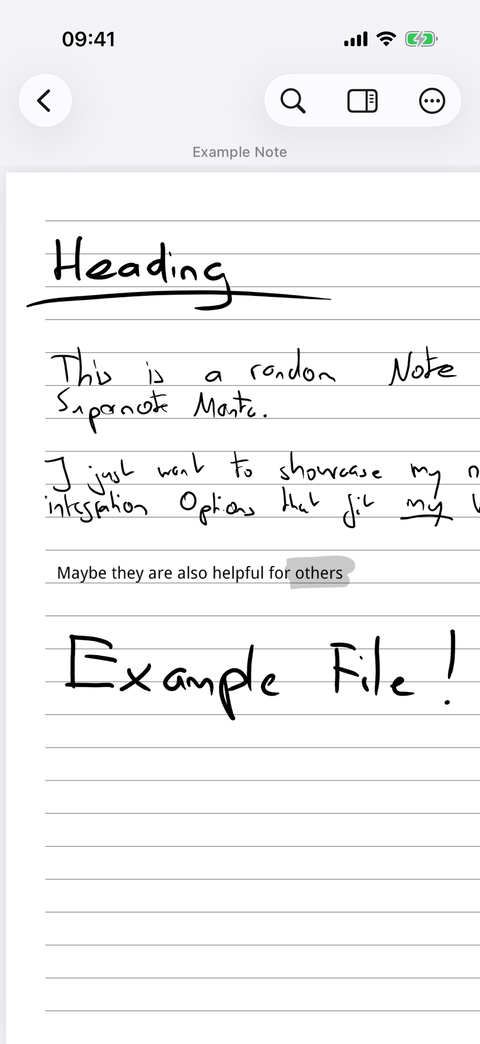
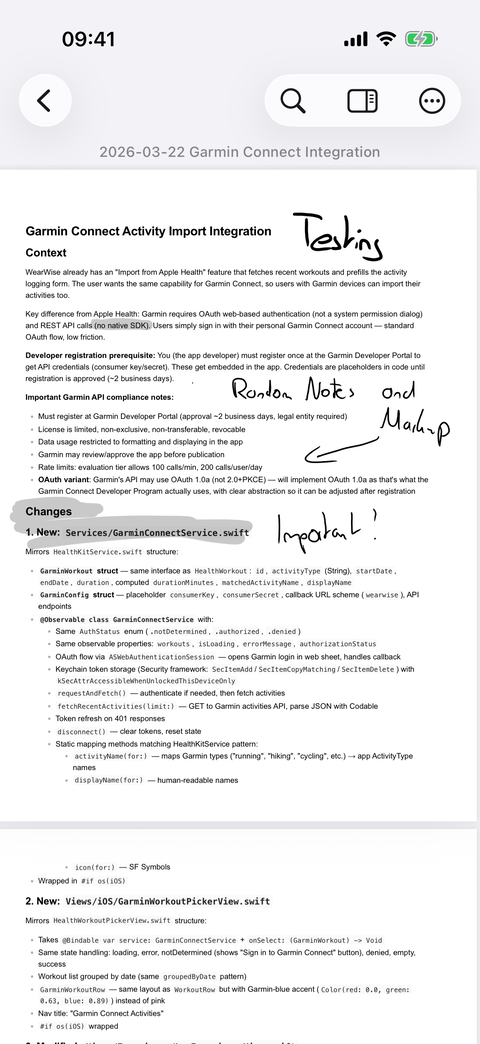
Show an annotated PDF on the iPhone in the hero image and README.

diff --git a/README.md b/README.md
@@ -56,7 +56,7 @@ For floor plans and sketches: choose **Calibrate** and drag along a length you k
 - **Opens shared files too.** Open a `.note` or `.pdf.mark` from Files, Mail or any other app, and export any document as a PDF.
 
 <p align="center">
-  <img src="docs/images/iphone.jpg" alt="Sumi on iPhone showing a handwritten notebook, zoomed in" width="230">
+  <img src="docs/images/iphone.jpg" alt="Sumi on iPhone showing a PDF with handwritten Supernote annotations" width="230">
   &nbsp;&nbsp;
   <img src="docs/images/ipad.jpg" alt="Sumi on iPad showing a handwritten notebook" width="400">
 </p>
